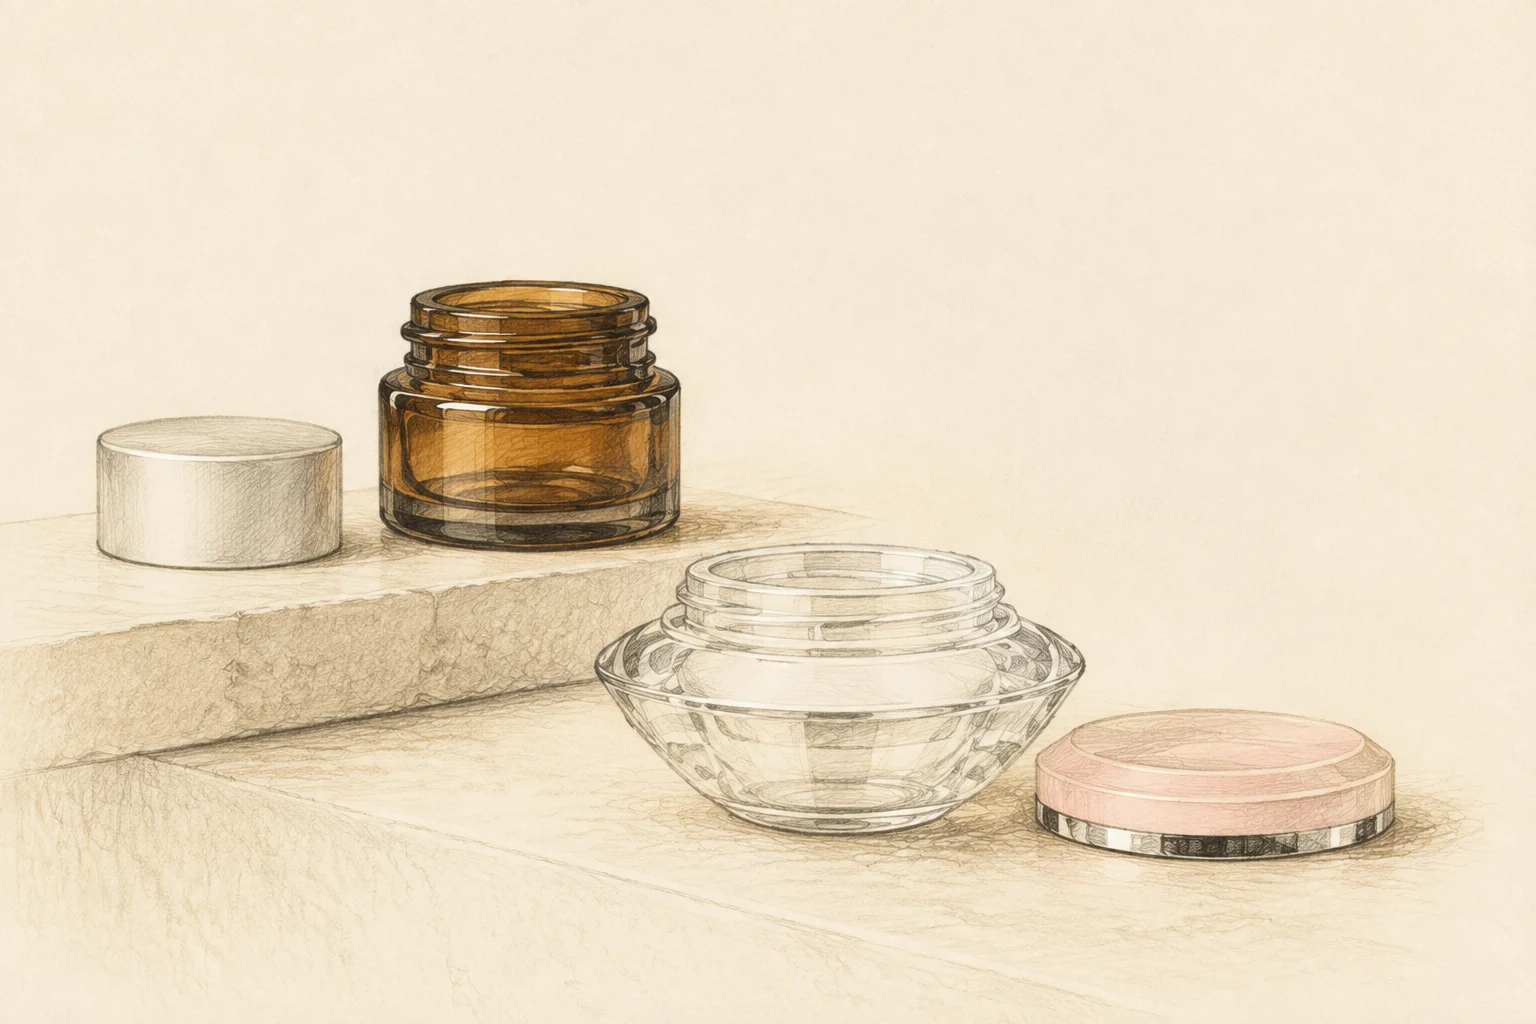
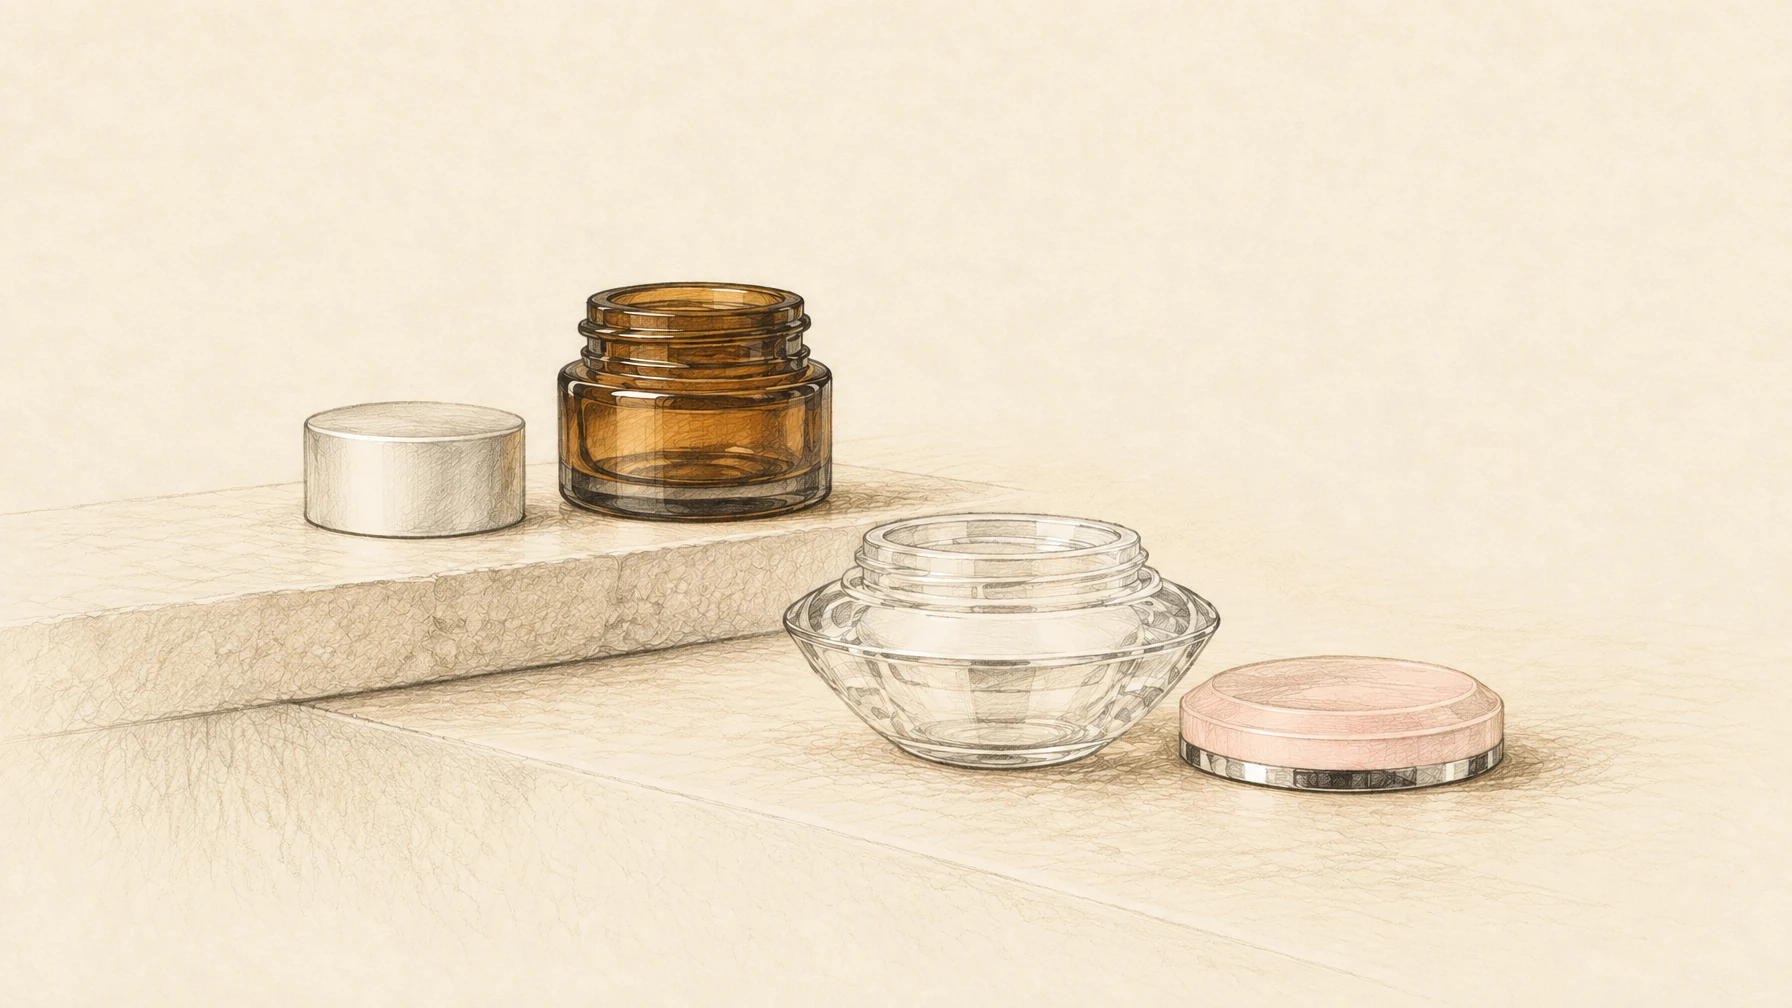
Homepage: portrait family cards, one-row explore carousel, edge-to-edge stories, shorter hero
Jordan's review of the homepage:
- "Popular families" cards are now portrait 2:3 and show the bare-glass
  family cards (Cylinder, Elegant, Circle, amber Boston Round) from the
  gated card lane — real bodies at one px/mm on stone. A code-owned card
  outranks the CMS still for those four families.
- The explore grid is a single long row of larger product tiles (27
  families scroll horizontally, six per view on desktop) sitting below
  the family cards, with the "Explore the catalog" heading above it.
- The editorial story frames were letterboxing 3:2 and 1:1 artwork inside
  taller/wider boxes, exposing the matte colour around the sketch. Each
  illustration is regenerated as the same drawing on a 16:9 canvas
  (Sunburst edit from the original, paper extended edge to edge) and the
  frames are fixed 16:9 with object-cover at every breakpoint.
- The desktop hero is shorter (66dvh, 540–680 px) so "Popular families"
  and the tops of the cards sit above the fold at 1440×900.

diff --git a/src/components/HomePage.tsx b/src/components/HomePage.tsx
@@ -112,7 +112,7 @@ function Hero({ heroSlides, mobileHeroMode }: { heroSlides?: HomepageData["heroS
     const showVideo = mediaType === "video" && videoUrl;
 
     return (
-        <section className={`${showOnMobile ? "flex" : "hidden lg:flex"} relative h-[78dvh] min-h-[620px] max-h-[700px] w-full items-end overflow-hidden bg-bone pb-12 pt-[96px] lg:h-[100dvh] lg:min-h-0 lg:max-h-none lg:items-center lg:pb-0 lg:pt-[120px]`}>
+        <section className={`${showOnMobile ? "flex" : "hidden lg:flex"} relative h-[78dvh] min-h-[620px] max-h-[700px] w-full items-end overflow-hidden bg-bone pb-12 pt-[96px] lg:h-[66dvh] lg:min-h-[540px] lg:max-h-[680px] lg:items-center lg:pb-0 lg:pt-[120px]`}>
             <div className="absolute inset-0 z-0 bg-travertine">
                 {isMultiSlide ? (
                     slides.map((s, i) => {
@@ -684,13 +684,13 @@ function SampleTestersFeature() {
                                 Explore Small Formats <ArrowRight size={14} className="transition-transform group-hover:translate-x-1" />
                             </span>
                         </div>
-                        <div className="relative min-h-[270px] overflow-hidden sm:min-h-[330px] md:min-h-[380px]" style={{ backgroundColor: HOME_SAMPLE_FEATURE.matte }}>
+                        <div className="relative aspect-[16/9] overflow-hidden" style={{ backgroundColor: HOME_SAMPLE_FEATURE.matte }}>
                             <Image
                                 src={HOME_SAMPLE_FEATURE.image}
                                 alt={HOME_SAMPLE_FEATURE.imageAlt}
                                 fill
                                 sizes="(min-width: 768px) 58vw, 100vw"
-                                className="object-contain object-center transition-transform duration-700 ease-out group-hover:scale-[1.01]"
+                                className="object-cover object-center transition-transform duration-700 ease-out group-hover:scale-[1.01]"
                             />
                         </div>
                     </Link>
@@ -718,7 +718,7 @@ function EditorialStories() {
                                 <article className="grid overflow-hidden border border-champagne/55 bg-linen lg:grid-cols-12">
                                     <Link
                                         href={story.href}
-                                        className={`${imageOnRight ? "lg:order-2" : ""} group relative aspect-[4/3] overflow-hidden sm:aspect-[16/9] lg:col-span-7 lg:aspect-auto lg:min-h-[410px] focus-visible:outline-2 focus-visible:outline-offset-[-2px] focus-visible:outline-muted-gold`}
+                                        className={`${imageOnRight ? "lg:order-2" : ""} group relative aspect-[16/9] overflow-hidden lg:col-span-7 focus-visible:outline-2 focus-visible:outline-offset-[-2px] focus-visible:outline-muted-gold`}
                                         style={{ backgroundColor: story.matte }}
                                     >
                                         <Image
@@ -726,8 +726,7 @@ function EditorialStories() {
                                             alt={story.imageAlt}
                                             fill
                                             sizes="(min-width: 1024px) 58vw, 100vw"
-                                            className="object-contain transition-transform duration-700 ease-out group-hover:scale-[1.01]"
-                                            style={{ objectPosition: story.imagePosition }}
+                                            className="object-cover transition-transform duration-700 ease-out group-hover:scale-[1.01]"
                                         />
                                     </Link>
                                     <div className={`${imageOnRight ? "lg:order-1" : ""} flex flex-col justify-center p-7 sm:p-10 lg:col-span-5 lg:p-12 xl:p-14`}>
@@ -755,7 +754,7 @@ function PackagingAccessoriesStory() {
                 <FadeUp className="grid overflow-hidden border border-champagne/60 bg-warm-white md:grid-cols-[1.08fr_0.92fr]">
                     <Link
                         href={HOME_ACCESSORY_STORY.href}
-                        className="group relative min-h-[290px] overflow-hidden sm:min-h-[350px] focus-visible:outline-2 focus-visible:outline-offset-[-2px] focus-visible:outline-muted-gold"
+                        className="group relative aspect-[16/9] overflow-hidden focus-visible:outline-2 focus-visible:outline-offset-[-2px] focus-visible:outline-muted-gold"
                         style={{ backgroundColor: HOME_ACCESSORY_STORY.matte }}
                     >
                         <Image
@@ -763,7 +762,7 @@ function PackagingAccessoriesStory() {
                             alt={HOME_ACCESSORY_STORY.imageAlt}
                             fill
                             sizes="(min-width: 768px) 54vw, 100vw"
-                            className="object-contain object-center transition-transform duration-700 ease-out group-hover:scale-[1.01]"
+                            className="object-cover object-center transition-transform duration-700 ease-out group-hover:scale-[1.01]"
                         />
                     </Link>
                     <div className="flex flex-col justify-center p-7 sm:p-10 lg:p-12">

diff --git a/src/components/home/HomeCatalogBrowser.module.css b/src/components/home/HomeCatalogBrowser.module.css
@@ -9,8 +9,8 @@
 .arrows button:disabled { opacity:.35; cursor:default; }
 .popularTrack { display:grid; grid-auto-flow:column; grid-auto-columns:calc((100% - 24px)/3); gap:12px; overflow-x:auto; scroll-snap-type:x mandatory; scrollbar-width:none; padding:4px; margin:-4px; }
 .popularTrack::-webkit-scrollbar,.compact::-webkit-scrollbar { display:none; }
-.featured { position:relative; height:280px; display:block; border-radius:5px; overflow:hidden; scroll-snap-align:start; isolation:isolate; }
-.photo { object-fit:cover; object-position:50% 20%; }
+.featured { position:relative; aspect-ratio:2/3; display:block; border-radius:5px; overflow:hidden; scroll-snap-align:start; isolation:isolate; background:#e9e2d6; }
+.photo { object-fit:cover; object-position:50% 50%; }
 .caption { position:absolute; inset:0; display:flex; flex-direction:column; justify-content:flex-end; align-items:flex-start; padding:18px; background:linear-gradient(transparent 35%,#0009); color:white; }
 .caption h3 { font-family:var(--font-eb-garamond),Georgia,serif; font-size:32px; line-height:1.05; margin-bottom:8px; font-weight:500; }
 .caption span { display:inline-flex; align-items:center; gap:16px; min-height:36px; padding:6px 13px; border:1px solid #ffffffb3; background:#252523dd; font-size:12px; }
@@ -20,10 +20,10 @@
 .tabs button { display:flex; align-items:center; gap:5px; padding:8px 2px; font-size:15px; color:#625e57; border-bottom:3px solid transparent; }
 .tabs button[aria-selected=true] { color:#252523; font-weight:600; border-color:var(--home-gold); }
 .tabs span { font-size:11px; font-variant-numeric:tabular-nums; }
-.compact { display:grid; grid-template-rows:repeat(2,auto); grid-auto-flow:column; grid-auto-columns:calc((100% - 30px)/4); gap:10px; overflow-x:auto; scroll-snap-type:x mandatory; scrollbar-width:none; padding:4px; margin:-4px; }
+.compact { display:grid; grid-template-rows:auto; grid-auto-flow:column; grid-auto-columns:calc((100% - 50px)/6); gap:10px; overflow-x:auto; scroll-snap-type:x mandatory; scrollbar-width:none; padding:4px; margin:-4px; }
 .expanded { display:grid; grid-template-columns:repeat(4,minmax(0,1fr)); gap:10px; }
 .card { display:flex; flex-direction:column; min-width:0; background:#eeebe5; border-radius:3px; overflow:hidden; scroll-snap-align:start; }
-.image { position:relative; height:128px; background:#f5f3ef; }
+.image { position:relative; height:190px; background:#f5f3ef; }
 .product { object-fit:contain; }
 .card > span { display:flex; justify-content:space-between; align-items:center; gap:4px; padding:6px 9px; min-height:42px; font-family:var(--font-eb-garamond),Georgia,serif; font-size:20px; line-height:1.15; background:#ffffff70; }
 .card svg { flex-shrink:0; }
@@ -52,14 +52,14 @@
  .heading { margin-bottom:10px; gap:8px; }
  .heading h2 { font-size:28px; scroll-margin-top:12px; }
  .popularTrack { grid-auto-columns:84%; gap:10px; }
- .featured { height:214px; }
+ .featured { aspect-ratio:2/3; }
  .caption { padding:14px; }
  .caption h3 { font-size:30px; }
  .catalog { margin-top:24px; }
  .catalog .heading h2 { font-size:27px; }
  .compact { grid-auto-columns:44%; gap:8px; }
  .expanded { grid-template-columns:repeat(2,minmax(0,1fr)); gap:8px; }
- .image { height:107px; }
+ .image { height:150px; }
  .card > span { font-size:19px; min-height:40px; padding:6px 8px; }
  .tabs { gap:14px; }
  .tabs button { font-size:14px; }

diff --git a/src/components/home/HomeCatalogBrowser.tsx b/src/components/home/HomeCatalogBrowser.tsx
@@ -18,7 +18,7 @@ const initial:Saved={tab:'families',expanded:false,popular:0,positions:{}};
 
 function CardImage({card,featured=false}:{card:HomeBrowseCard;featured?:boolean}) {
  const [failed,setFailed]=useState(false);
- return card.image && !failed ? <Image src={card.image} alt="" fill sizes={featured?'(min-width: 1024px) 33vw, 82vw':'(min-width: 1024px) 24vw, 43vw'} className={featured?styles.photo:styles.product} onError={()=>setFailed(true)} unoptimized={card.image.startsWith('http')} /> : <span className={styles.missing}>Browse {card.label}</span>;
+ return card.image && !failed ? <Image src={card.image} alt="" fill sizes={featured?'(min-width: 1024px) 33vw, 82vw':'(min-width: 1024px) 16vw, 43vw'} className={featured?styles.photo:styles.product} onError={()=>setFailed(true)} unoptimized={card.image.startsWith('http')} /> : <span className={styles.missing}>Browse {card.label}</span>;
 }
 function Arrows({label,previous,next,onMove}:{label:string;previous:boolean;next:boolean;onMove:(direction:number)=>void}) {
  return <div className={styles.arrows}><button type="button" aria-label={`Previous ${label}`} disabled={!previous} onClick={()=>onMove(-1)}><ArrowLeft size={19}/></button><button type="button" aria-label={`Next ${label}`} disabled={!next} onClick={()=>onMove(1)}><ArrowRight size={19}/></button></div>;
@@ -33,7 +33,8 @@ export default function HomeCatalogBrowser({data,designFamilyCards}:{data:HomeBr
  const featured=HOME_FAMILY_MOSAIC.flatMap(f=>{
   const found=data?.families.find(c=>c.id===f.family);if(!found)return [];
   const editorial=designFamilyCards?.find(c=>c.family===f.family);
-  return [{...found,image:editorial?.image?urlFor(editorial.image):f.image}];
+  // A generated, gated bare-glass card (true relative scale) outranks the CMS still for that family.
+  return [{...found,image:f.card??(editorial?.image?urlFor(editorial.image):f.image)}];
  });
  function persist(){try{sessionStorage.setItem(storageKey,JSON.stringify(saved.current));}catch{/* Storage is optional in private browsing. */}}
  function sync(which:'popular'|'catalog'){

diff --git a/src/lib/homepageMerchandising.ts b/src/lib/homepageMerchandising.ts
@@ -4,6 +4,8 @@ export type HomepageFamilyCard = {
     family: string;
     title: string;
     image: string;
+    /** Portrait 2:3 bare-glass family card (real bodies at one px/mm on stone); wins over the CMS still when present. */
+    card?: string;
     layout: "feature" | "standard" | "wide";
     description?: string;
     applications?: string[];
@@ -14,6 +16,7 @@ export const HOME_FAMILY_MOSAIC: readonly HomepageFamilyCard[] = [
         family: "Cylinder",
         title: "Cylinder",
         image: "/assets/Cylinder-BB.png",
+        card: "/assets/family-cards/cylinder.webp",
         layout: "feature",
         description: "Clean, versatile, made for roll-on, spray, pump, or cap.",
         applications: ["Roll-on", "Spray", "Pump", "Cap"],
@@ -22,18 +25,21 @@ export const HOME_FAMILY_MOSAIC: readonly HomepageFamilyCard[] = [
         family: "Elegant",
         title: "Elegant",
         image: "/assets/Slim-BB.png",
+        card: "/assets/family-cards/elegant.webp",
         layout: "standard",
     },
     {
         family: "Circle",
         title: "Circle",
         image: "/assets/CreamJars-BB.png",
+        card: "/assets/family-cards/circle.webp",
         layout: "standard",
     },
     {
         family: "Boston Round",
         title: "Boston Round",
         image: "/assets/collection_amber.png",
+        card: "/assets/family-cards/boston-round.webp",
         layout: "wide",
     },
 ] as const;
